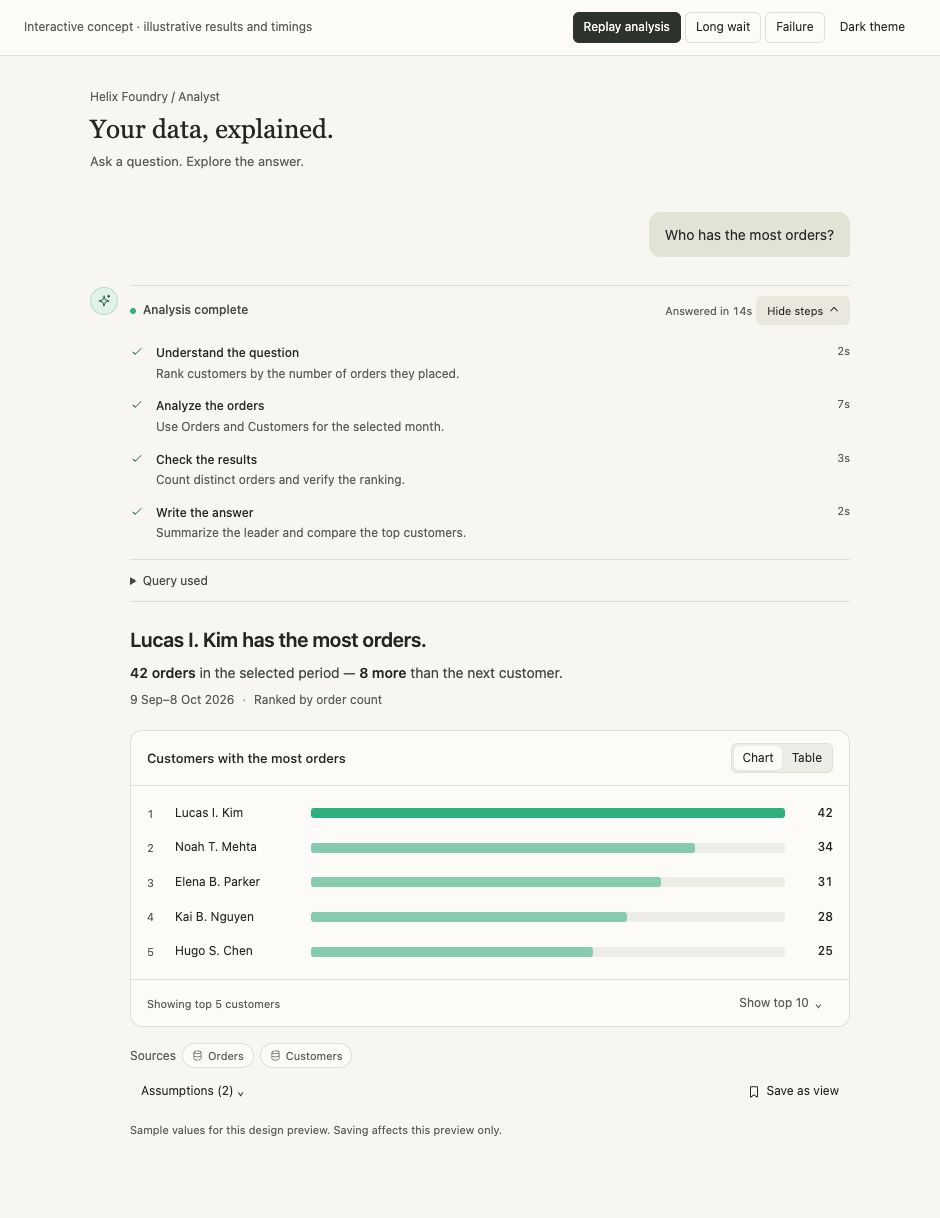
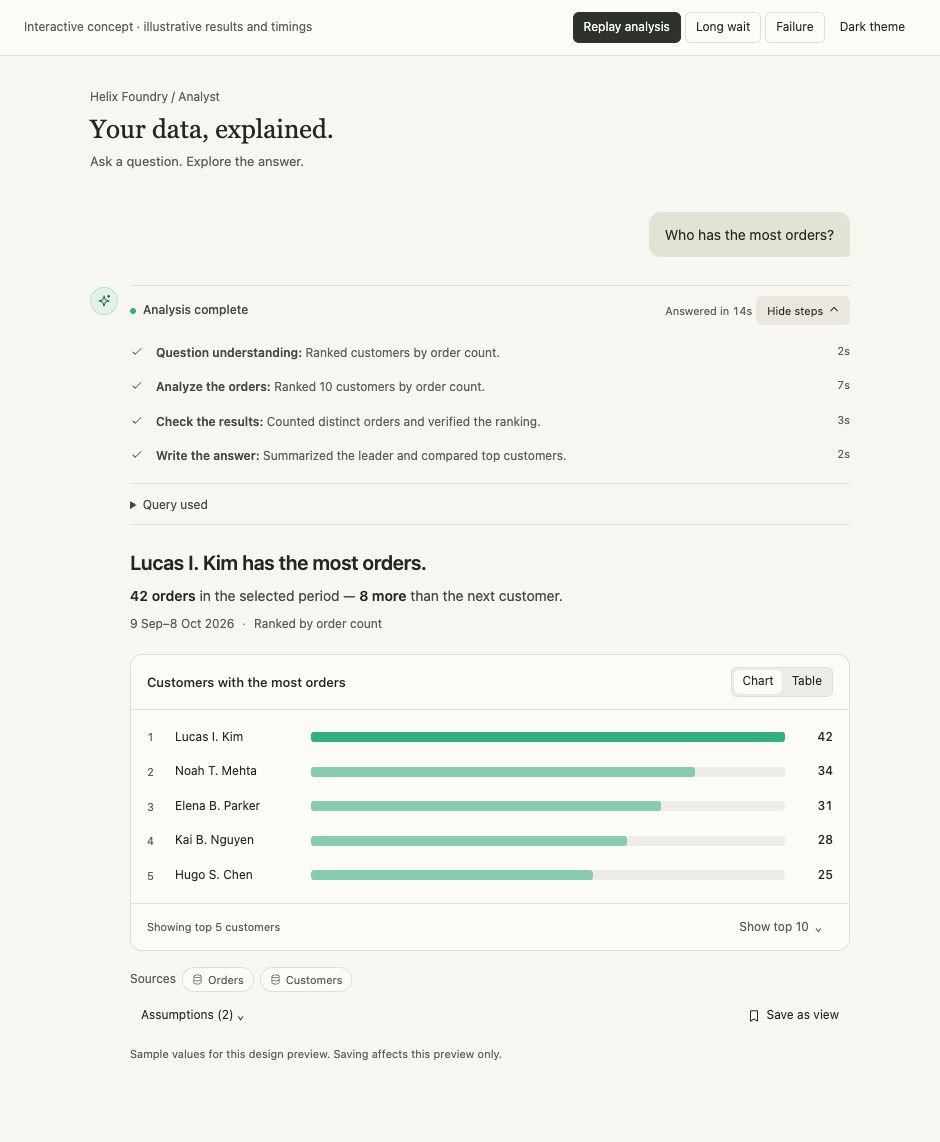
docs: make Analyst step labels and outcomes inline in both views

diff --git a/docs/design/analyst-confidence/analyst-concept.html b/docs/design/analyst-confidence/analyst-concept.html
@@ -150,7 +150,7 @@
 }
 *{box-sizing:border-box}body{margin:0;background:var(--hf-bg);color:var(--hf-text);font:13px/1.55 var(--hf-font-sans)}button{font:inherit;cursor:pointer;color:inherit}button:focus-visible,summary:focus-visible{outline:2px solid var(--hf-focus);outline-offset:3px}button:disabled{cursor:default;opacity:.55}[hidden]{display:none!important}
 .concept{border-bottom:1px solid var(--hf-border);padding:12px 24px;display:flex;justify-content:space-between;gap:12px;align-items:center;background:var(--hf-raised)}.concept-label{font-size:12px;color:var(--hf-muted)}.controls{display:flex;gap:4px;flex-wrap:wrap}.btn{border:1px solid var(--hf-border);background:var(--hf-raised);border-radius:var(--hf-radius-sm);padding:5px 10px;min-height:28px;font-size:12px;display:inline-flex;gap:6px;align-items:center;justify-content:center}.btn:hover{background:var(--hf-hover)}.ghost{border-color:transparent;background:transparent}.ink{background:var(--hf-ink);color:var(--hf-on-ink);border-color:var(--hf-ink)}.ink:hover{background:var(--hf-ink-hover)}svg{width:14px;height:14px;flex:none;fill:none;stroke:currentColor;stroke-width:1.6;stroke-linecap:round;stroke-linejoin:round}
-main{max-width:808px;padding:32px 24px 80px;margin:auto}.page-head{display:flex;justify-content:space-between;align-items:start;margin-bottom:40px}.breadcrumb{color:var(--hf-muted);font-size:12px;margin-bottom:8px}.page-head h1{font:26px/1.2 var(--hf-font-display);margin:0}.page-head p{color:var(--hf-muted);margin:6px 0 0}.thread-label{font-size:12px;color:var(--hf-muted);margin-bottom:8px}.question{display:flex;justify-content:flex-end;margin-bottom:28px}.question p{background:var(--hf-selected);border-radius:12px 12px 4px 12px;margin:0;padding:12px 16px;font-size:14px}.reply{display:grid;grid-template-columns:28px minmax(0,1fr);gap:12px}.avatar{width:28px;height:28px;display:grid;place-items:center;border:1px solid var(--hf-accent-border);background:var(--hf-accent-soft);color:var(--hf-accent-text);border-radius:50%;margin-top:2px}.reply-body{min-width:0}.trace{margin-bottom:24px;border-top:1px solid var(--hf-border);border-bottom:1px solid var(--hf-border);padding:10px 0}.trace-head{display:flex;justify-content:space-between;align-items:center;gap:8px;margin-bottom:5px}.trace-title{font-size:12px;font-weight:500;color:var(--hf-text-2);display:flex;gap:7px;align-items:center}.trace-meta{color:var(--hf-muted);font-size:11px;font-variant-numeric:tabular-nums}.trace-toggle{font-size:11px;white-space:nowrap}.trace-tools{display:flex;align-items:center;gap:4px}.dot{height:6px;width:6px;border-radius:50%;background:var(--hf-accent)}.trace.running .dot{background:var(--hf-info)}.trace.failed .dot{background:var(--hf-danger)}.compact{min-height:48px;display:grid;align-content:start;gap:3px}.compact p{margin:0;font-size:12px;line-height:21px;display:flex;gap:8px;align-items:center;color:var(--hf-muted)}.compact p.active{color:var(--hf-text)}.compact p svg{width:12px;height:12px;color:var(--hf-accent-text)}.compact p.active svg{color:var(--hf-info-text)}.trace.expanded .compact{display:none}.trace-content{padding-top:12px}.trace-tabs{display:flex;gap:12px;border-bottom:1px solid var(--hf-border);margin-bottom:12px}.tab{border:0;border-bottom:2px solid transparent;background:none;color:var(--hf-muted);font-size:12px;padding:4px 0 8px}.tab[aria-selected=true]{color:var(--hf-text);border-color:var(--hf-accent)}.timeline{list-style:none;margin:0;padding:0;display:grid;gap:12px}.step{display:grid;grid-template-columns:18px minmax(0,1fr) auto;gap:8px;align-items:start}.step-mark{margin-top:2px;color:var(--hf-accent-text)}.step.pending{color:var(--hf-muted)}.step.pending .step-mark{color:var(--hf-faint)}.step.active .step-mark{color:var(--hf-info-text)}.step strong{font-weight:500;font-size:12px}.step p{font-size:12px;color:var(--hf-muted);margin:2px 0 0}.step time{font-size:11px;color:var(--hf-muted);font-variant-numeric:tabular-nums}.method p{margin:0 0 8px;font-size:12px;color:var(--hf-text-2)}.method dl{margin:0;display:grid;grid-template-columns:90px 1fr;gap:6px;font-size:12px}.method dt{color:var(--hf-muted)}.method dd{margin:0}.error{padding:12px 0;color:var(--hf-danger-text);font-size:12px}.error p{margin:0 0 8px}
+main{max-width:808px;padding:32px 24px 80px;margin:auto}.page-head{display:flex;justify-content:space-between;align-items:start;margin-bottom:40px}.breadcrumb{color:var(--hf-muted);font-size:12px;margin-bottom:8px}.page-head h1{font:26px/1.2 var(--hf-font-display);margin:0}.page-head p{color:var(--hf-muted);margin:6px 0 0}.thread-label{font-size:12px;color:var(--hf-muted);margin-bottom:8px}.question{display:flex;justify-content:flex-end;margin-bottom:28px}.question p{background:var(--hf-selected);border-radius:12px 12px 4px 12px;margin:0;padding:12px 16px;font-size:14px}.reply{display:grid;grid-template-columns:28px minmax(0,1fr);gap:12px}.avatar{width:28px;height:28px;display:grid;place-items:center;border:1px solid var(--hf-accent-border);background:var(--hf-accent-soft);color:var(--hf-accent-text);border-radius:50%;margin-top:2px}.reply-body{min-width:0}.trace{margin-bottom:24px;border-top:1px solid var(--hf-border);border-bottom:1px solid var(--hf-border);padding:10px 0}.trace-head{display:flex;justify-content:space-between;align-items:center;gap:8px;margin-bottom:5px}.trace-title{font-size:12px;font-weight:500;color:var(--hf-text-2);display:flex;gap:7px;align-items:center}.trace-meta{color:var(--hf-muted);font-size:11px;font-variant-numeric:tabular-nums}.trace-toggle{font-size:11px;white-space:nowrap}.trace-tools{display:flex;align-items:center;gap:4px}.dot{height:6px;width:6px;border-radius:50%;background:var(--hf-accent)}.trace.running .dot{background:var(--hf-info)}.trace.failed .dot{background:var(--hf-danger)}.compact{min-height:48px;display:grid;align-content:start;gap:3px}.compact p{margin:0;font-size:12px;line-height:21px;display:flex;gap:8px;align-items:center;color:var(--hf-muted)}.compact p.active{color:var(--hf-text)}.compact p svg{width:12px;height:12px;color:var(--hf-accent-text)}.compact p.active svg{color:var(--hf-info-text)}.trace.expanded .compact{display:none}.trace-content{padding-top:12px}.trace-tabs{display:flex;gap:12px;border-bottom:1px solid var(--hf-border);margin-bottom:12px}.tab{border:0;border-bottom:2px solid transparent;background:none;color:var(--hf-muted);font-size:12px;padding:4px 0 8px}.tab[aria-selected=true]{color:var(--hf-text);border-color:var(--hf-accent)}.timeline{list-style:none;margin:0;padding:0;display:grid;gap:12px}.step{display:grid;grid-template-columns:18px minmax(0,1fr) auto;gap:8px;align-items:start}.step-mark{margin-top:2px;color:var(--hf-accent-text)}.step.pending{color:var(--hf-muted)}.step.pending .step-mark{color:var(--hf-faint)}.step.active .step-mark{color:var(--hf-info-text)}.step strong,.compact strong{font-weight:600;font-size:inherit;color:var(--hf-text-2)}.step p{font-size:12px;color:var(--hf-muted);margin:0}.compact .step-summary{min-width:0;overflow:hidden;white-space:nowrap;text-overflow:ellipsis}.step-summary{line-height:21px}.step time{font-size:11px;color:var(--hf-muted);font-variant-numeric:tabular-nums}.method p{margin:0 0 8px;font-size:12px;color:var(--hf-text-2)}.method dl{margin:0;display:grid;grid-template-columns:90px 1fr;gap:6px;font-size:12px}.method dt{color:var(--hf-muted)}.method dd{margin:0}.error{padding:12px 0;color:var(--hf-danger-text);font-size:12px}.error p{margin:0 0 8px}
 .answer h2{font-size:20px;line-height:1.4;font-weight:500;letter-spacing:-.2px;margin:0 0 8px}.answer-lead{margin:0;color:var(--hf-text-2);font-size:14px}.answer-lead strong{color:var(--hf-text);font-weight:600;font-variant-numeric:tabular-nums}.context{display:flex;gap:8px;align-items:center;flex-wrap:wrap;color:var(--hf-muted);font-size:12px;margin:8px 0 20px}.separator{color:var(--hf-faint)}.panel{background:var(--hf-raised);border:1px solid var(--hf-border);border-radius:var(--hf-radius-lg);overflow:hidden}.panel-head{display:flex;align-items:center;justify-content:space-between;gap:12px;padding:12px 16px;border-bottom:1px solid var(--hf-border)}.panel-head h3{font-weight:500;font-size:13px;margin:0}.switch{display:flex;gap:2px;background:var(--hf-sunken);border:1px solid var(--hf-border);padding:2px;border-radius:6px}.switch .btn{border:0;min-height:24px;padding:2px 8px;background:transparent}.switch .btn[aria-pressed=true]{background:var(--hf-raised);box-shadow:var(--hf-shadow-1)}.bars{list-style:none;padding:18px 16px;margin:0;display:grid;gap:16px}.bar-row{display:grid;grid-template-columns:18px 126px minmax(0,1fr) 38px;align-items:center;gap:10px;font-size:12px}.rank{font-size:11px;color:var(--hf-muted);font-variant-numeric:tabular-nums}.bar-name{overflow:hidden;text-overflow:ellipsis;white-space:nowrap}.bar-track{background:var(--hf-sunken);height:10px;border-radius:3px;overflow:hidden}.bar-fill{height:100%;width:var(--width);background:var(--hf-chart-1);opacity:.55;border-radius:3px}.bar-row:first-child .bar-fill{opacity:1}.bar-value{text-align:right;font-weight:500;font-variant-numeric:tabular-nums}.panel-foot{padding:8px 16px;border-top:1px solid var(--hf-border);display:flex;align-items:center;justify-content:space-between;gap:8px;font-size:11px;color:var(--hf-muted)}table{width:100%;border-collapse:collapse;font-size:12px}th{font-weight:500;color:var(--hf-muted);background:var(--hf-sunken)}td,th{padding:10px 16px;text-align:left;border-bottom:1px solid var(--hf-border)}td.num,th.num{text-align:right;font-variant-numeric:tabular-nums}tbody tr:last-child td{border-bottom:0}.table-wrap{overflow:auto}.sources{display:flex;align-items:center;flex-wrap:wrap;gap:6px;margin:16px 0 8px;font-size:12px;color:var(--hf-muted)}.chip{font-size:11px;border:1px solid var(--hf-border);border-radius:99px;padding:3px 9px;display:inline-flex;gap:5px;align-items:center;background:var(--hf-raised)}.chip svg{width:11px;height:11px}.foot{display:flex;justify-content:space-between;gap:8px;flex-wrap:wrap}.disclosures{display:flex;gap:8px;flex-wrap:wrap}.disclosure{border-top:1px solid var(--hf-border);margin-top:12px;padding:12px 0;color:var(--hf-text-2);font-size:12px}.disclosure p{margin:0}.disclosure pre{white-space:pre-wrap;font:11px/1.7 var(--hf-font-mono);margin:0;background:var(--hf-sunken);padding:12px;border-radius:8px}.notice{font-size:11px;color:var(--hf-muted);margin:14px 0 0}.waiting{color:var(--hf-muted);font-size:13px;padding:16px 0}.sr{position:absolute;width:1px;height:1px;padding:0;margin:-1px;overflow:hidden;clip:rect(0,0,0,0);white-space:nowrap;border:0}
 @media(max-width:600px){.concept{padding:12px 16px;align-items:start;flex-direction:column;gap:8px}main{padding:24px 16px 48px}.page-head{margin-bottom:28px}.page-head h1{font-size:23px}.reply{grid-template-columns:22px minmax(0,1fr);gap:8px}.avatar{width:22px;height:22px}.avatar svg{width:12px;height:12px}.trace-head{flex-wrap:wrap}.trace-meta{font-size:10px}.trace-tools{margin-left:auto}.answer h2{font-size:18px}.bar-row{grid-template-columns:12px 100px minmax(0,1fr) 28px;gap:6px;font-size:11px}.bars{padding:16px 12px;gap:16px}.panel-head{padding:10px 12px}.panel-foot{padding:8px 12px}td,th{padding:8px 10px}.segment{display:none}.foot{gap:4px}.context{gap:5px;font-size:11px}.question p{font-size:13px}.compact p{font-size:11px}.trace-title{font-size:11px}}
 @media(prefers-reduced-motion:reduce){*{animation:none!important;transition:none!important}}
@@ -210,10 +210,10 @@ const check='<svg aria-hidden="true" viewBox="0 0 24 24"><path d="m5 12 4 4L19 6
 const circle='<svg aria-hidden="true" viewBox="0 0 24 24"><circle cx="12" cy="12" r="7"/><path d="M12 8v4l3 2"/></svg>';
 const empty='<svg aria-hidden="true" viewBox="0 0 24 24"><circle cx="12" cy="12" r="7"/></svg>';
 const steps=[
- {name:'Understand the question',detail:'Rank customers by the number of orders they placed.',duration:'2s'},
- {name:'Analyze the orders',detail:'Use Orders and Customers for the selected month.',duration:'7s'},
- {name:'Check the results',detail:'Count distinct orders and verify the ranking.',duration:'3s'},
- {name:'Write the answer',detail:'Summarize the leader and compare the top customers.',duration:'2s'}
+ {name:'Question understanding',detail:'Rank customers by order count.',result:'Ranked customers by order count.',duration:'2s'},
+ {name:'Analyze the orders',detail:'Rank customers using Orders and Customers.',result:'Ranked 10 customers by order count.',duration:'7s'},
+ {name:'Check the results',detail:'Count distinct orders and verify the ranking.',result:'Counted distinct orders and verified the ranking.',duration:'3s'},
+ {name:'Write the answer',detail:'Summarize the leader and compare top customers.',result:'Summarized the leader and compared top customers.',duration:'2s'}
 ];
 const customers=[
  ['Lucas I. Kim',42,'Business'],['Noah T. Mehta',34,'Loyalty'],['Elena B. Parker',31,'Business'],['Kai B. Nguyen',28,'Business'],['Hugo S. Chen',25,'Loyalty'],['Isla H. Garcia',23,'Loyalty'],['Amara H. Martin',21,'Consumer'],['Ava I. Bennett',19,'Loyalty'],['Oliver J. Reed',18,'Consumer'],['Mia S. Patel',16,'Business']
@@ -239,15 +239,12 @@ function renderTrace(){
  $('trace-content').hidden=!expanded;
  $('expand').setAttribute('aria-expanded',String(expanded));
  $('expand').innerHTML=(expanded?'Hide steps':'Show steps')+' <span aria-hidden="true">'+(expanded?'⌃':'⌄')+'</span>';
- if(state==='complete'){
-  $('compact').innerHTML='<p>'+check+'Checked the results.</p><p>'+check+'Wrote the answer.</p>';
- }else{
-  const available=steps.slice(0,current+1),visible=available.slice(-3);
-  $('compact').innerHTML=visible.map((s,i)=>{const index=steps.indexOf(s),active=index===current;return '<p class="'+(active?'active':'')+'">'+(active?circle:check)+s.name+(active&&state==='failed'?' · interrupted':active?'…':'')+'</p>'}).join('');
-  // Two quiet lines at startup; no invented completed steps.
-  if(available.length===1)$('compact').innerHTML+='<p>'+empty+'Orders and Customers · selected month</p>';
- }
- $('timeline').innerHTML=steps.map((s,i)=>{const done=state==='complete'||i<current,active=i===current&&state!=='complete';return '<li class="step '+(active?'active':done?'':'pending')+'"><span class="step-mark">'+(done?check:active?circle:empty)+'</span><div><strong>'+s.name+'<span class="sr">'+(done?' — complete':active?state==='failed'?' — interrupted':' — in progress':' — not started')+'</span></strong><p>'+s.detail+'</p></div><time>'+(done?s.duration:active?state==='failed'?'Stopped':'In progress':'—')+'</time></li>'}).join('');
+ const available=state==='complete'?steps:steps.slice(0,current+1);
+ const visible=available.slice(state==='complete'?-2:-3);
+ $('compact').innerHTML=visible.map(s=>{const index=steps.indexOf(s),done=state==='complete'||index<current,active=!done;return '<p class="'+(active?'active':'')+'">'+(done?check:circle)+'<span class="step-summary"><strong>'+s.name+':</strong> '+(done?s.result:s.detail)+(active&&state==='failed'?' · interrupted':'')+'</span></p>'}).join('');
+ // Source context is not presented as a completed step.
+ if(available.length===1)$('compact').innerHTML+='<p>'+empty+'<span class="step-summary">Orders and Customers · selected month</span></p>';
+ $('timeline').innerHTML=steps.map((s,i)=>{const done=state==='complete'||i<current,active=i===current&&state!=='complete';return '<li class="step '+(active?'active':done?'':'pending')+'"><span class="step-mark">'+(done?check:active?circle:empty)+'</span><p class="step-summary"><strong>'+s.name+':<span class="sr">'+(done?' — complete':active?state==='failed'?' — interrupted':' — in progress':' — not started')+'</span></strong> '+(done?s.result:s.detail)+'</p><time>'+(done?s.duration:active?state==='failed'?'Stopped':'In progress':'—')+'</time></li>'}).join('');
  $('query-detail').hidden=state==='running'&&current<1;
  $('query-label').textContent=state==='complete'?'Query used':state==='failed'?'Attempted query':'Query being checked';
  $('error').hidden=state!=='failed';$('answer').hidden=state!=='complete';$('waiting').hidden=state!=='running';renderTiming();

diff --git a/docs/design/analyst-confidence/README.md b/docs/design/analyst-confidence/README.md
@@ -2,7 +2,7 @@
 
 Standalone, dependency-free HTML prototype. Open analyst-concept.html in a browser. Sample numbers and timing are illustrative. This is a design artifact, not a deployed product change.
 
-- Compact, dynamic preview: two to three major steps, expandable.
+- Compact, dynamic preview: two to three major steps, expandable. In both folded and expanded views, each step is one inline statement: bold step name followed by a normal-weight activity or outcome. Compact rows truncate to one line; expansion reveals the full text and wraps naturally on mobile.
 - Expansion contains four steps: understand the question, analyze orders, check results, write the answer. No tabs or separate calculation section.
 - Query details appear only inside the expansion and are themselves collapsed by default.
 - Highlight the primary answer and important quantities using bold text only; preserve the existing paper background.
